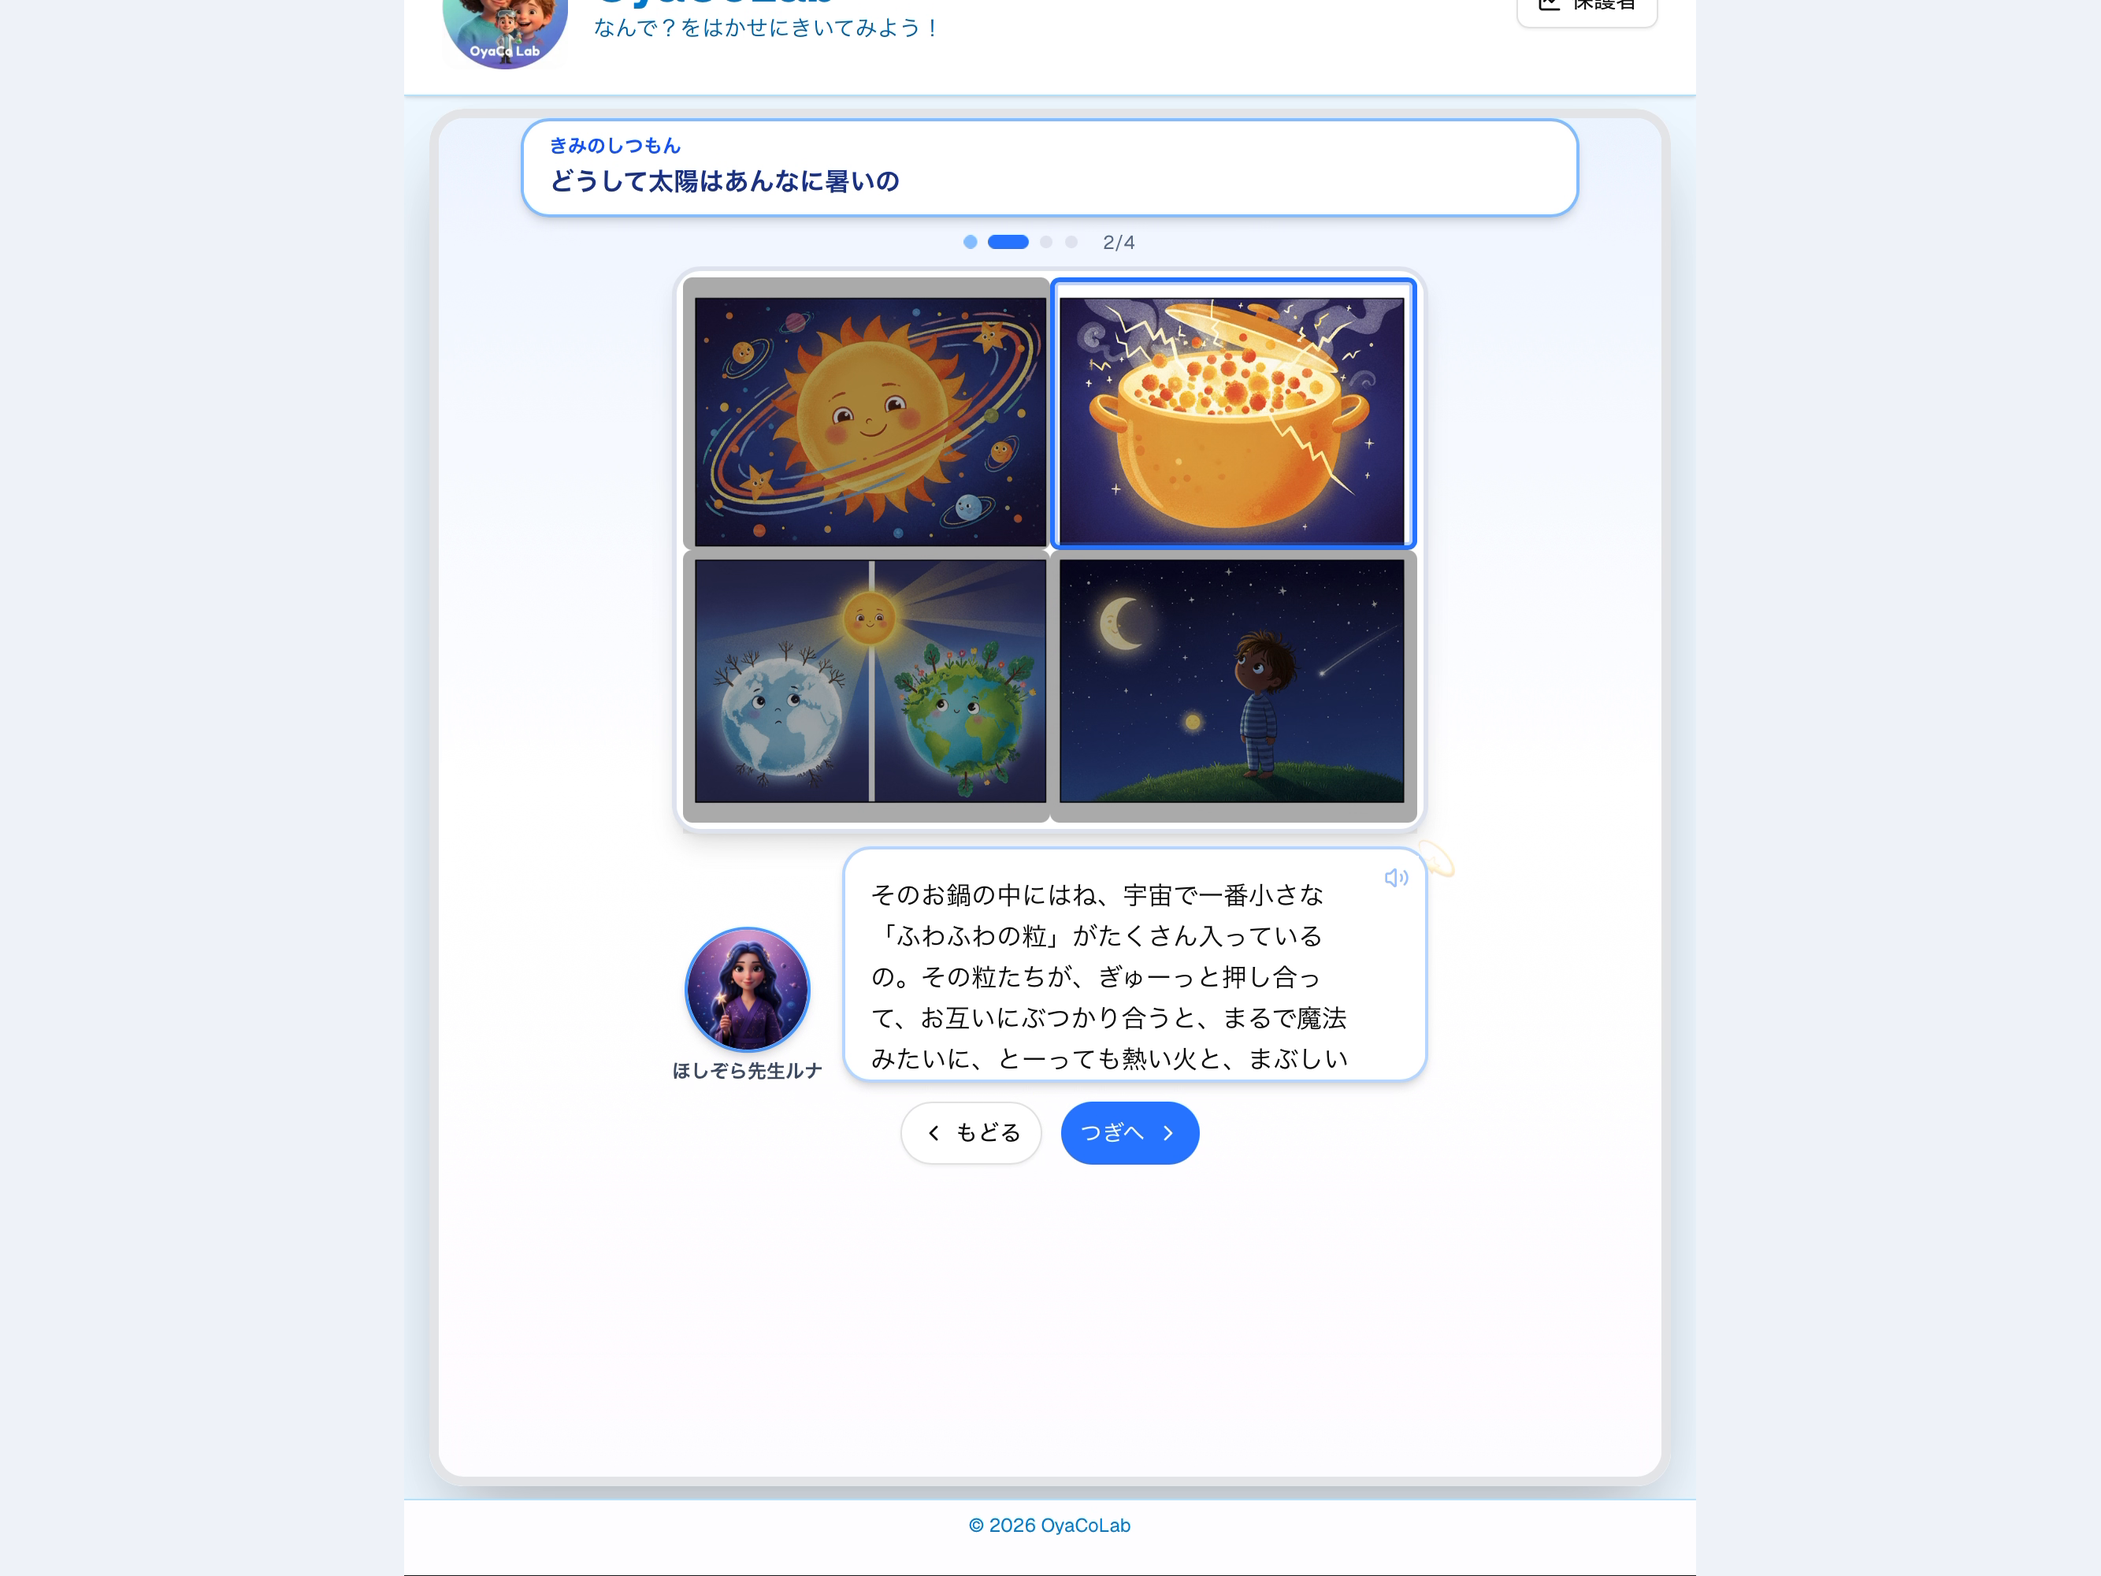
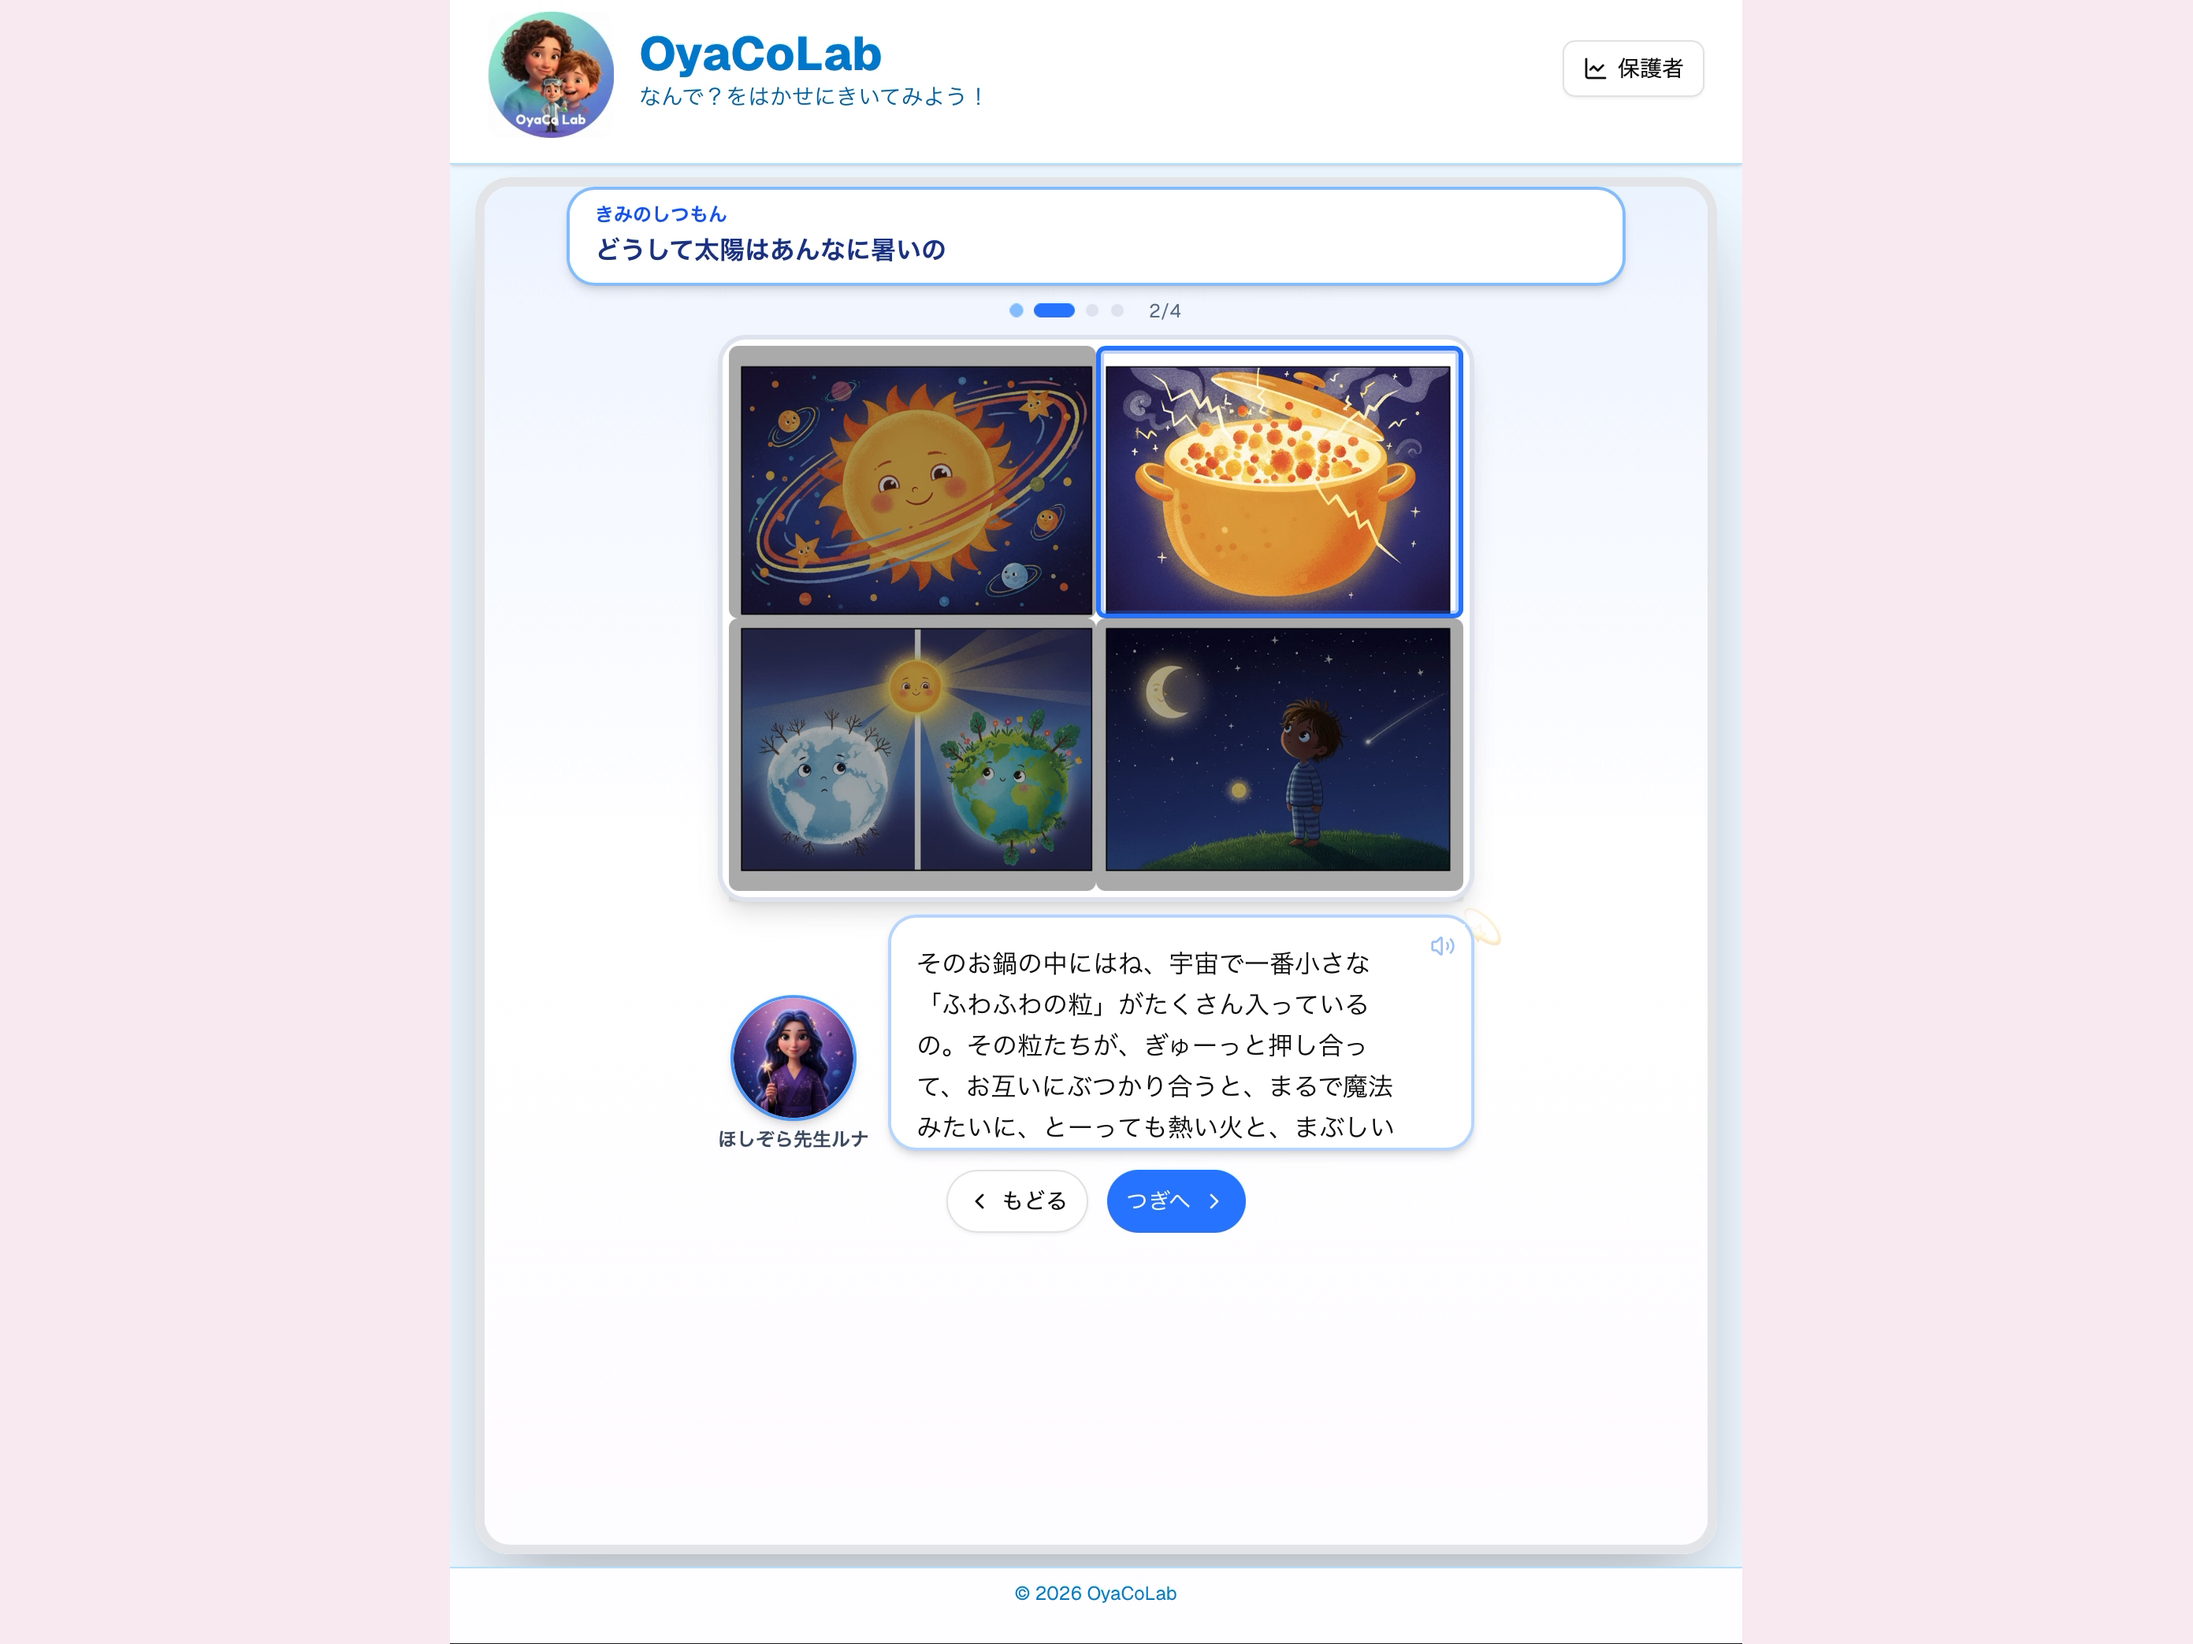
Adjust frame cropping and background mapping

Changed region(s): [[0.1867, 0.0, 0.8091, 0.775], [0.1867, 0.124, 0.8091, 0.992]]

diff --git a/tools/process_frames_4x3.py b/tools/process_frames_4x3.py
@@ -14,8 +14,8 @@ DEST_DIR = Path("output/video_analysis_5sec_processed")
 
 # Crop settings based on inspection of frame_0001.png
 # Original size: 1640x2360
-# Remove browser UI at top by cropping 360px from top.
-CROP_TOP = 360
+# Remove browser UI at top by cropping 273px from top.
+CROP_TOP = 273
 
 # Output target (4:3) based on cropped height 2100 -> width 2800
 TARGET_HEIGHT = 2100
@@ -28,18 +28,12 @@ BG_COLOR_B = (232, 248, 236)  # #E8F8EC (淡い緑)
 
 
 def background_for_frame(frame_name: str) -> tuple[int, int, int]:
-    # A: frame_0001,0004,0005,0006,0011,0014
-    # B: frame_0016,0020,0024
-    if frame_name in {
-        "frame_0001.png",
-        "frame_0004.png",
-        "frame_0005.png",
-        "frame_0006.png",
-        "frame_0011.png",
-        "frame_0014.png",
-    }:
-        return BG_COLOR_A
-    if frame_name in {"frame_0016.png", "frame_0020.png", "frame_0024.png"}:
+    # frame_0017 以降は保護者パートとして薄緑
+    try:
+        index = int(frame_name.replace("frame_", "").replace(".png", ""))
+    except ValueError:
+        return BG_COLOR_DEFAULT
+    if index >= 17:
         return BG_COLOR_B
     return BG_COLOR_DEFAULT
 

diff --git a/plans/video_editing_plan_visual.md b/plans/video_editing_plan_visual.md
@@ -10,10 +10,10 @@
 | **A-0: 説明スライド**<br>実画面の紹介 | <img src="./assets/scene_00_navy.png" width="300"> | 00:00- | 以降は実際のアプリ画面での説明である旨を明示。<br>テキスト案: 「ここから実画面で紹介します」 | 「ここから実画面です。子供の“なんで？”が動き出します。」 |
 | **A-1: タイトルスライド**<br>子供の体験 | <img src="./assets/title_slide_part_a_child.png" width="300"> | 00:05- | Part A開始の区切り。<br>テキスト案: 「Part A: 子供の体験」 | 「まずは学習画面。学びが自分ごとになります。」 |
 | **A-2: 質問入力**<br>音声で簡単に質問 | <img src="../output/video_analysis_5sec_v3_processed/frame_0001.png" width="300"> | 00:10- | マイクに向かって話しかけるシーン。<br>「うんうん、きいてるよ！」で音声入力が直感的。 | 「ボタンを押して話すだけ。音声で質問できます。」 |
-| **A-3: 誰に聞く？**<br>博士の選定 | <img src="../output/video_analysis_5sec_v3_processed/frame_0003.png" width="300"> | 00:25- | 質問内容に応じて博士候補が表示される。<br>「だれにきくかかんがえているよ…」の演出。 | 「質問に合わせて博士を選びます。先生が決まる瞬間。」 |
-| **A-4: 博士決定**<br>選定理由の提示 | <img src="../output/video_analysis_5sec_v3_processed/frame_0006.png" width="300"> | 00:30- | ニュートン博士に決定。<br>「えらばれたりゆう」で納得感を演出。<br>※5フレーム目の表記は「**5分**」に修正（55分に見えないよう明確に）。 | 「選ばれた理由が見えるから、納得して聞けます。」 |
-| **A-5: 待機画面**<br>飽きさせない工夫 | <img src="../output/video_analysis_5sec_v3_processed/frame_0008.png" width="300"> | 00:35- | 思考中アニメーション、二段階プログレス、クイズ&豆知識。<br>待ち時間も「遊び」に変える。<br>(frame_0006〜0009あたりを使用) | 「待ち時間もクイズで楽しく。進捗が見えます。」 |
-| **A-6: 博士の回答**<br>専門家による解説 | <img src="../output/video_analysis_5sec_v3_processed/frame_0011.png" width="300"> | 01:00- | 4コマ解説とテキストで分かりやすく説明。<br>ステップ表示（1/4など）でテンポよく。<br>(frame_0010〜0013あたりを使用) | 「博士が楽しく解説。4コマで理解できます。」 |
+| **A-3: 誰に聞く？**<br>博士の選定 | <img src="../output/video_analysis_5sec_v3_processed/frame_0004.png" width="300"> | 00:25- | 質問内容に応じて博士候補が表示される。<br>「だれにきくかかんがえているよ…」の演出。 | 「質問に合わせて博士を選びます。先生が決まる瞬間。」 |
+| **A-4: 博士決定**<br>選定理由の提示 | <img src="../output/video_analysis_5sec_v3_processed/frame_0005.png" width="300"> | 00:30- | ほしぞら先生ルナに決定。<br>「えらばれたりゆう」で納得感を演出。 | 「選ばれた理由が見えるから、納得して聞けます。」 |
+| **A-5: 待機画面**<br>飽きさせない工夫 | <img src="../output/video_analysis_5sec_v3_processed/frame_0008.png" width="300"> | 00:35- | 思考中アニメーション、二段階プログレス、クイズ&豆知識。<br>待ち時間も「遊び」に変える。 | 「待ち時間もクイズや豆知識で楽しく。進捗が見えます。」 |
+| **A-6: 博士の回答**<br>専門家による解説 | <img src="../output/video_analysis_5sec_v3_processed/frame_0010.png" width="300"> | 01:00- | 4コマ解説とテキストで分かりやすく説明。<br>ステップ表示（1/4など）でテンポよく。| 「博士が楽しく解説。4コマで理解できます。」 |
 | **A-7: 次の発見へ**<br>探究の連鎖 | <img src="../output/video_analysis_5sec_v3_processed/frame_0016.png" width="300"> | 01:15- | 回答の最後に「もっとしりたい？」で関連質問を提示。<br>単発で終わらず好奇心を広げる。 | 「“もっと知りたい”が次の発見へ。」 |
 
 ## Part B: 保護者の体験 (The Parent's Insight)
@@ -22,6 +22,6 @@
 | シーン | 画像イメージ | 時間目安 | 説明 | ナレーション案 |
 | :--- | :--- | :--- | :--- | :--- |
 | **B-0: タイトルスライド**<br>保護者の体験 | <img src="./assets/title_slide_part_b_parent_child.png" width="300"> | 01:25- | Part B開始の区切り。<br>テキスト案: 「Part B: 保護者の体験」 | 「次は保護者向け画面。親の“気づき”が増えます。」 |
-| **B-1: 会話ログ一覧**<br>子供の興味が見える | <img src="../output/video_analysis_5sec_v3_processed/frame_0019.png" width="300"> | 01:30- | 最近の会話が時系列で一覧表示。<br>「うちの子、何に興味がある？」がすぐ分かる。<br>(frame_0019〜0020あたりを使用) | 「子供の興味が見える化。関心の変化が一目で分かる。」 |
-| **B-2: 子育てアドバイザー**<br>チャットで相談 | <img src="../output/video_analysis_5sec_v3_processed/frame_0022.png" width="300"> | 01:50- | **ここが重要！**<br>学習状況に基づくアドバイスを対話で取得。<br>不安や悩みをすぐ相談できる。<br>(frame_0021〜0023あたりを使用) | 「相談すれば、データに基づく提案がすぐ返る。」 |
+| **B-1: 会話ログ一覧**<br>子供の興味が見える | <img src="../output/video_analysis_5sec_v3_processed/frame_0017.png" width="300"> | 01:30- | 最近の会話が時系列で一覧表示。<br>「うちの子、何に興味がある？」がすぐ分かる。<br>(frame_0019〜0020あたりを使用) | 「子供の興味が見える化。関心の変化が一目で分かる。」 |
+| **B-2: 子育てアドバイザー**<br>チャットで相談 | <img src="../output/video_analysis_5sec_v3_processed/frame_0021.png" width="300"> | 01:50- | **ここが重要！**<br>学習状況に基づくアドバイスを対話で取得。<br>不安や悩みをすぐ相談できる。<br>(frame_0021〜0023あたりを使用) | 「相談すれば、データに基づく提案がすぐ返る。」 |
 | **B-3: 会話のきっかけ提案**<br>AIからのネタ提供 | <img src="../output/video_analysis_5sec_v3_processed/frame_0025.png" width="300"> | 02:10- | **ここが重要！**<br>AIが具体的な問いかけをカードで提示。<br>親子の会話を自然にサポート。<br>(frame_0024〜0025あたりを使用) | 「会話のヒントがすぐ届く。話しかけるきっかけに。」 |
